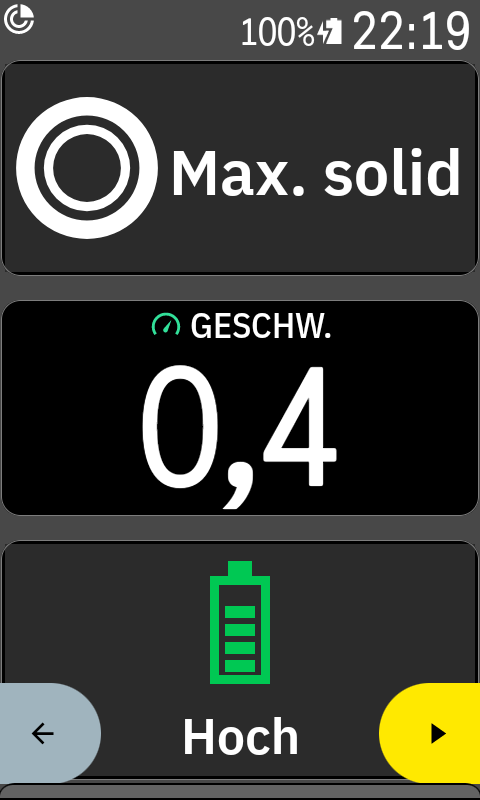
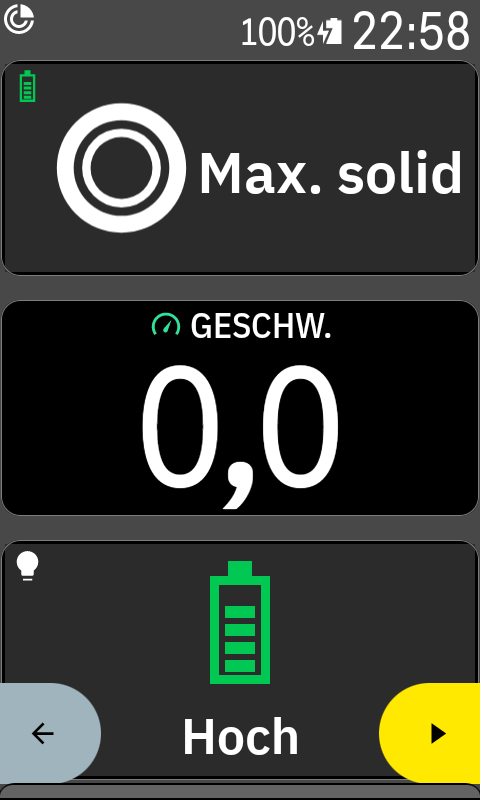
Show radar disconnection and a corner symbol in the data fields
Both fields gray out and show Disconnected while the radar is not
connected, instead of a stale level. Like the Karoo's own fields, they
also get a small symbol in the top left corner: the battery level on the
light field and a bulb on the battery field.

Claude-Session: https://claude.ai/code/session_016hAm9qURLNhSAjmwgYhamg

diff --git a/app/src/main/kotlin/dev/karoovaria/light/BatteryField.kt b/app/src/main/kotlin/dev/karoovaria/light/BatteryField.kt
@@ -12,44 +12,17 @@ import kotlinx.coroutines.CoroutineScope
 import kotlinx.coroutines.Dispatchers
 import kotlinx.coroutines.delay
 import kotlinx.coroutines.flow.collectLatest
+import kotlinx.coroutines.flow.combine
 import kotlinx.coroutines.launch
 
 private val COLOR_GOOD = Color.parseColor("#FF00C853")
 private val COLOR_OK = Color.parseColor("#FFFFD600")
 private val COLOR_LOW = Color.parseColor("#FFFF9100")
 private val COLOR_CRITICAL = Color.parseColor("#FFFF3D00")
-private val COLOR_UNKNOWN = Color.parseColor("#FF9E9E9E")
+internal val COLOR_UNKNOWN = Color.parseColor("#FF9E9E9E")
 
-class BatteryField(extension: String) : DataTypeImpl(extension, "battery") {
-    override fun startView(context: Context, config: ViewConfig, emitter: ViewEmitter) {
-        emitter.onNext(UpdateGraphicConfig(showHeader = false))
-        if (config.preview) {
-            emitter.updateView(render(context, config, BatteryStatus.GOOD))
-            return
-        }
-        val job = CoroutineScope(Dispatchers.Main).launch {
-            VariaBattery.status.collectLatest { status ->
-                while (true) {
-                    emitter.updateView(render(context, config, status))
-                    delay(VIEW_REFRESH_MS)
-                }
-            }
-        }
-        emitter.setCancellable { job.cancel() }
-    }
-
-    private fun render(context: Context, config: ViewConfig, status: BatteryStatus?): RemoteViews {
-        val (width, height) = config.viewSize
-        val views = RemoteViews(context.packageName, if (width >= height * 2) R.layout.item_mode_wide else R.layout.item_mode_tall)
-        views.setInt(R.id.item, "setBackgroundColor", COLOR_FIELD)
-        views.setImageViewResource(R.id.icon, icon(status))
-        views.setInt(R.id.icon, "setColorFilter", color(status))
-        views.setTextViewText(R.id.label, label(context, status))
-        views.setTextColor(R.id.label, Color.WHITE)
-        return views
-    }
-
-    private fun icon(status: BatteryStatus?): Int = when (status) {
+object BatteryUi {
+    fun icon(status: BatteryStatus?): Int = when (status) {
         BatteryStatus.NEW -> R.drawable.ic_battery_new
         BatteryStatus.GOOD -> R.drawable.ic_battery_good
         BatteryStatus.OK -> R.drawable.ic_battery_ok
@@ -58,7 +31,7 @@ class BatteryField(extension: String) : DataTypeImpl(extension, "battery") {
         BatteryStatus.INVALID, null -> R.drawable.ic_battery_unknown
     }
 
-    private fun color(status: BatteryStatus?): Int = when (status) {
+    fun color(status: BatteryStatus?): Int = when (status) {
         BatteryStatus.NEW, BatteryStatus.GOOD -> COLOR_GOOD
         BatteryStatus.OK -> COLOR_OK
         BatteryStatus.LOW -> COLOR_LOW
@@ -66,7 +39,7 @@ class BatteryField(extension: String) : DataTypeImpl(extension, "battery") {
         BatteryStatus.INVALID, null -> COLOR_UNKNOWN
     }
 
-    private fun label(context: Context, status: BatteryStatus?): String = context.getString(
+    fun label(context: Context, status: BatteryStatus?): String = context.getString(
         when (status) {
             BatteryStatus.NEW -> R.string.battery_new
             BatteryStatus.GOOD -> R.string.battery_good
@@ -76,4 +49,39 @@ class BatteryField(extension: String) : DataTypeImpl(extension, "battery") {
             BatteryStatus.INVALID, null -> R.string.mode_unknown
         },
     )
+}
+
+class BatteryField(extension: String, private val radar: RadarStatus) : DataTypeImpl(extension, "battery") {
+    override fun startView(context: Context, config: ViewConfig, emitter: ViewEmitter) {
+        emitter.onNext(UpdateGraphicConfig(showHeader = false))
+        if (config.preview) {
+            emitter.updateView(render(context, config, BatteryStatus.GOOD, connected = true))
+            return
+        }
+        radar.attach()
+        val job = CoroutineScope(Dispatchers.Main).launch {
+            combine(VariaBattery.status, radar.connected) { status, connected -> status to connected }
+                .collectLatest { (status, connected) ->
+                    while (true) {
+                        emitter.updateView(render(context, config, status, connected != false))
+                        delay(VIEW_REFRESH_MS)
+                    }
+                }
+        }
+        emitter.setCancellable {
+            job.cancel()
+            radar.detach()
+        }
+    }
+
+    private fun render(context: Context, config: ViewConfig, status: BatteryStatus?, connected: Boolean): RemoteViews {
+        val shown = status.takeIf { connected }
+        val views = FieldViews.item(context, config)
+        views.setInt(R.id.item, "setBackgroundColor", COLOR_FIELD)
+        views.setImageViewResource(R.id.icon, BatteryUi.icon(shown))
+        views.setInt(R.id.icon, "setColorFilter", BatteryUi.color(shown))
+        views.setTextViewText(R.id.label, if (connected) BatteryUi.label(context, status) else context.getString(R.string.disconnected))
+        views.setTextColor(R.id.label, if (connected) Color.WHITE else COLOR_UNKNOWN)
+        return FieldViews.withCorner(context, views, R.drawable.ic_light, if (connected) Color.WHITE else COLOR_UNKNOWN)
+    }
 }

diff --git a/app/src/main/kotlin/dev/karoovaria/light/LightModeField.kt b/app/src/main/kotlin/dev/karoovaria/light/LightModeField.kt
@@ -7,12 +7,14 @@ import android.graphics.Color
 import android.widget.RemoteViews
 import io.hammerhead.karooext.extension.DataTypeImpl
 import io.hammerhead.karooext.internal.ViewEmitter
+import io.hammerhead.karooext.models.BatteryStatus
 import io.hammerhead.karooext.models.UpdateGraphicConfig
 import io.hammerhead.karooext.models.ViewConfig
 import kotlinx.coroutines.CoroutineScope
 import kotlinx.coroutines.Dispatchers
 import kotlinx.coroutines.delay
 import kotlinx.coroutines.flow.collectLatest
+import kotlinx.coroutines.flow.combine
 import kotlinx.coroutines.launch
 
 // The page grid is 60 units in both directions
@@ -26,24 +28,45 @@ internal const val VIEW_REFRESH_MS = 3000L
 
 private val PREVIEW_STATE = LightState("STEADY4", listOf("OFF", "STEADY4", "STEADY5", "SLOW_FLASH", "FAST_FLASH"))
 
-class LightModeField(extension: String) : DataTypeImpl(extension, "light-mode") {
+class LightModeField(extension: String, private val radar: RadarStatus) : DataTypeImpl(extension, "light-mode") {
     override fun startView(context: Context, config: ViewConfig, emitter: ViewEmitter) {
         emitter.onNext(UpdateGraphicConfig(showHeader = false))
         if (config.preview) {
-            emitter.updateView(render(context, config, PREVIEW_STATE, interactive = false))
+            emitter.updateView(
+                FieldViews.withCorner(
+                    context,
+                    render(context, config, PREVIEW_STATE, interactive = false),
+                    BatteryUi.icon(BatteryStatus.GOOD),
+                    BatteryUi.color(BatteryStatus.GOOD),
+                ),
+            )
             return
         }
         KarooLightClient.attach(context)
+        radar.attach()
         val job = CoroutineScope(Dispatchers.Main).launch {
-            KarooLightClient.state.collectLatest { state ->
+            combine(KarooLightClient.state, VariaBattery.status, radar.connected) { state, battery, connected ->
+                Triple(state, battery, connected)
+            }.collectLatest { (state, battery, connected) ->
                 while (true) {
-                    emitter.updateView(render(context, config, state, interactive = true))
+                    val views = if (connected == false) {
+                        renderDisconnected(context, config)
+                    } else {
+                        FieldViews.withCorner(
+                            context,
+                            render(context, config, state, interactive = true),
+                            BatteryUi.icon(battery),
+                            BatteryUi.color(battery),
+                        )
+                    }
+                    emitter.updateView(views)
                     delay(VIEW_REFRESH_MS)
                 }
             }
         }
         emitter.setCancellable {
             job.cancel()
+            radar.detach()
             KarooLightClient.detach(context)
         }
     }
@@ -74,12 +97,21 @@ class LightModeField(extension: String) : DataTypeImpl(extension, "light-mode") 
     }
 
     private fun renderToggle(context: Context, config: ViewConfig, state: LightState, interactive: Boolean): RemoteViews {
-        val (width, height) = config.viewSize
-        val views = RemoteViews(context.packageName, if (width >= height * 2) R.layout.item_mode_wide else R.layout.item_mode_tall)
+        val views = FieldViews.item(context, config)
         bindMode(context, views, state.mode, selected = false)
         if (interactive) {
             views.setOnClickPendingIntent(R.id.item, tapIntent(context, 0, null))
         }
+        return views
+    }
+
+    private fun renderDisconnected(context: Context, config: ViewConfig): RemoteViews {
+        val views = FieldViews.item(context, config)
+        views.setInt(R.id.item, "setBackgroundColor", COLOR_FIELD)
+        views.setImageViewResource(R.id.icon, R.drawable.ic_mode_off)
+        views.setInt(R.id.icon, "setColorFilter", COLOR_UNKNOWN)
+        views.setTextViewText(R.id.label, context.getString(R.string.disconnected))
+        views.setTextColor(R.id.label, COLOR_UNKNOWN)
         return views
     }
 

diff --git a/app/src/main/kotlin/dev/karoovaria/light/RadarStatus.kt b/app/src/main/kotlin/dev/karoovaria/light/RadarStatus.kt
@@ -1,0 +1,61 @@
+package dev.karoovaria.light
+
+import android.os.Handler
+import android.os.Looper
+import io.hammerhead.karooext.KarooSystemService
+import io.hammerhead.karooext.models.DataType
+import io.hammerhead.karooext.models.OnStreamState
+import io.hammerhead.karooext.models.StreamState
+import kotlinx.coroutines.flow.MutableStateFlow
+import kotlinx.coroutines.flow.StateFlow
+
+// Ignores short dropouts
+private const val DISCONNECT_DELAY_MS = 5000L
+
+/**
+ * Follows the radar connection for views showing it.
+ */
+class RadarStatus(private val karooSystem: KarooSystemService) {
+    private val connectedFlow = MutableStateFlow<Boolean?>(null)
+
+    /**
+     * Null until the Karoo has reported a state.
+     */
+    val connected: StateFlow<Boolean?> = connectedFlow
+
+    private val handler = Handler(Looper.getMainLooper())
+    private val markDisconnected = Runnable { connectedFlow.value = false }
+    private var consumerId: String? = null
+    private var viewCount = 0
+
+    @Synchronized
+    fun attach() {
+        viewCount++
+        if (viewCount > 1) return
+        consumerId = karooSystem.addConsumer(OnStreamState.StartStreaming(DataType.Type.RADAR)) { event: OnStreamState ->
+            onState(event.state)
+        }
+    }
+
+    @Synchronized
+    fun detach() {
+        viewCount--
+        if (viewCount > 0) return
+        consumerId?.let { karooSystem.removeConsumer(it) }
+        consumerId = null
+        handler.removeCallbacks(markDisconnected)
+        connectedFlow.value = null
+    }
+
+    private fun onState(state: StreamState) {
+        if (state is StreamState.Streaming) {
+            handler.removeCallbacks(markDisconnected)
+            connectedFlow.value = true
+        } else if (connectedFlow.value == null) {
+            connectedFlow.value = false
+        } else if (connectedFlow.value == true) {
+            handler.removeCallbacks(markDisconnected)
+            handler.postDelayed(markDisconnected, DISCONNECT_DELAY_MS)
+        }
+    }
+}

diff --git a/app/src/main/kotlin/dev/karoovaria/light/FieldViews.kt b/app/src/main/kotlin/dev/karoovaria/light/FieldViews.kt
@@ -1,0 +1,28 @@
+package dev.karoovaria.light
+
+import android.content.Context
+import android.widget.RemoteViews
+import io.hammerhead.karooext.models.ViewConfig
+
+object FieldViews {
+    /**
+     * A single icon and label, arranged to suit the field's shape.
+     */
+    fun item(context: Context, config: ViewConfig): RemoteViews {
+        val (width, height) = config.viewSize
+        return RemoteViews(context.packageName, if (width >= height * 2) R.layout.item_mode_wide else R.layout.item_mode_tall)
+    }
+
+    /**
+     * Adds a small symbol in the top left corner, like the Karoo's own data fields.
+     */
+    fun withCorner(context: Context, content: RemoteViews, icon: Int, color: Int): RemoteViews {
+        val frame = RemoteViews(context.packageName, R.layout.field_frame)
+        frame.addView(R.id.frame, content)
+        val corner = RemoteViews(context.packageName, R.layout.view_corner)
+        corner.setImageViewResource(R.id.corner, icon)
+        corner.setInt(R.id.corner, "setColorFilter", color)
+        frame.addView(R.id.frame, corner)
+        return frame
+    }
+}

diff --git a/app/src/main/kotlin/dev/karoovaria/light/VariaExtension.kt b/app/src/main/kotlin/dev/karoovaria/light/VariaExtension.kt
@@ -8,8 +8,12 @@ private const val ANT_DEVICE_TYPE_LIGHT = "35"
 
 class VariaExtension : KarooExtension("varia", BuildConfig.VERSION_NAME) {
     private lateinit var karooSystem: KarooSystemService
+    private val radarStatus by lazy { RadarStatus(karooSystem) }
 
-    override val types by lazy { listOf(LightModeField(extension), BatteryField(extension)) }
+    override val types by lazy { listOf(
+            LightModeField(extension, radarStatus),
+            BatteryField(extension, radarStatus),
+        ) }
 
     override fun onCreate() {
         super.onCreate()

diff --git a/README.md b/README.md
@@ -20,11 +20,11 @@ The field adapts to its size and only offers the modes your light reports. The h
 | ![Current mode, slim](docs/screenshots/light-slim.png) | ![Current mode, tile](docs/screenshots/light-tile.png) |
 | Tap for the next mode | Tap for the next mode |
 
-The screenshots show the Karoo's pre-ride screen, whose back and start buttons cover the bottom corners. They disappear once a ride starts.
+The small symbol in the top left corner shows the Varia's battery level. The screenshots show the Karoo's pre-ride screen, whose back and start buttons cover the bottom corners. They disappear once a ride starts.
 
 ### Varia battery
 
-The Varia reports a status level, not a percentage. While it is off or out of range, the field shows the last level the Karoo saved.
+The Varia reports a status level, not a percentage.
 
 | Level | Screenshot |
 |---|---|
@@ -36,6 +36,12 @@ The Varia reports a status level, not a percentage. While it is off or out of ra
 | Unknown | ![Unknown](docs/screenshots/battery-unknown.png) |
 
 These levels were simulated for the screenshots, on a Karoo set to German. Labels follow the Karoo's language, English or German.
+
+### Disconnected
+
+When the radar is off or out of range, both fields turn gray and show Disconnected, and the light field stops reacting to taps. They recover on their own once the Karoo finds the radar again, which can take up to about a minute.
+
+![Both fields disconnected](docs/screenshots/disconnected.png)
 
 ## Supported devices
 
@@ -59,7 +65,7 @@ Requirements and limits:
 
 - The light must be paired over ANT+. If several lights are paired, the field controls the first one.
 - Mode names are assigned by the ANT+ mode number: 4 Max. solid, 5 Peloton, 6 Night flash, 7 Day flash, 0 Off. They were confirmed on the RTL515 only, and any other mode shows its raw name with a generic icon.
-- Garmin says an RTL515/RTL516 in Standby does not detect vehicles. Whether Off from this field does the same is not tested, so check that your radar still detects vehicles before relying on it.
+- Garmin says an RTL515/RTL516 in Standby does not detect vehicles. On the tested RTL515 the radar kept sending data while the light reported Off, but detecting a vehicle in that state has not been tested, so check it before relying on it.
 
 ## Install
 
